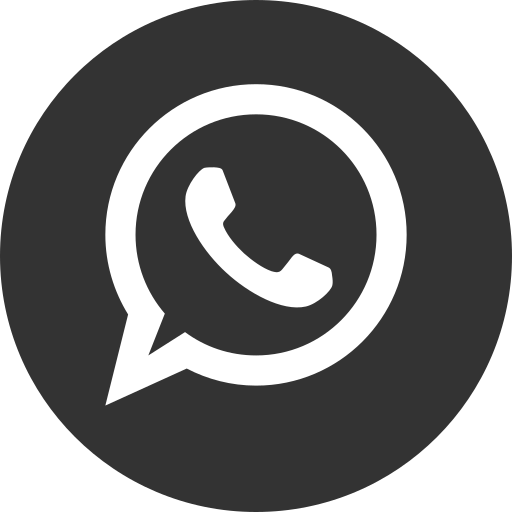
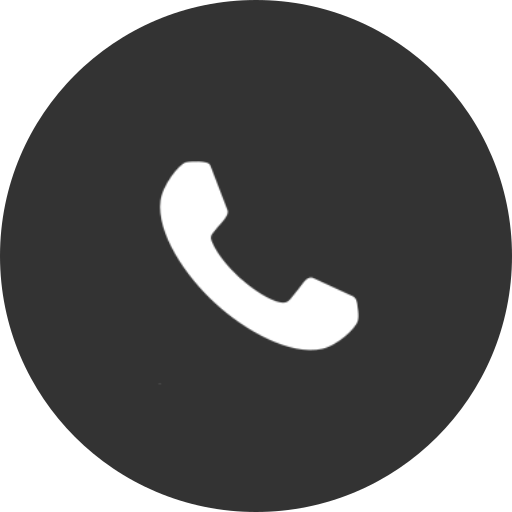
cm30-12-v2

Changed region(s): [[0.1875, 0.1562, 0.8125, 0.8125]]

diff --git a/rent.html b/rent.html
@@ -19,7 +19,7 @@
 
         <div id="rent-description">
             <p>
-                Potrebuješ opremo za snemalne dni? <span onclick="window.open('mailto:sobanmatic@gmail.com', '_blank')">Pošlji povpraševanje</span> ali pokliči in se dogovori za sodelovanje ali izposojo video opreme.
+                Potrebuješ opremo za snemalne dni? <span onclick="window.open('mailto:sobanmatic@gmail.com', '_blank')">Pošlji povpraševanje</span> ali <span onclick="window.open('tel:+38631218150', '_blank')">pokliči</span> in se dogovori za sodelovanje ali izposojo video opreme.
                 <br>
                 Vse cene so obračunane na en dan najema.
             </p>

diff --git a/script.js b/script.js
@@ -1,7 +1,7 @@
 document.getElementById("footer").innerHTML = `
     <img onclick="window.open('https://www.facebook.com/soban.matic','_blank')" src="./assets/social-media/facebook.png" />
     <img onclick="window.open('https://www.instagram.com/matic_soban/', '_blank')" src="./assets/social-media/instagram.png" />
-    <img src="./assets/social-media/whatsapp.png" />
+    <img onclick="window.open('tel:+38631218150')" src="./assets/social-media/whatsapp.png"/>
     <img onclick="window.open('mailto:sobanmatic@gmail.com', '_blank')" src="./assets/social-media/email.png" />
 `;
 

diff --git a/index.html b/index.html
@@ -34,6 +34,5 @@
         </footer>
 
         <script type="module" src="script.js"></script>
-        <script type="module" src="projects.js"></script>
     </body>
 </html>
